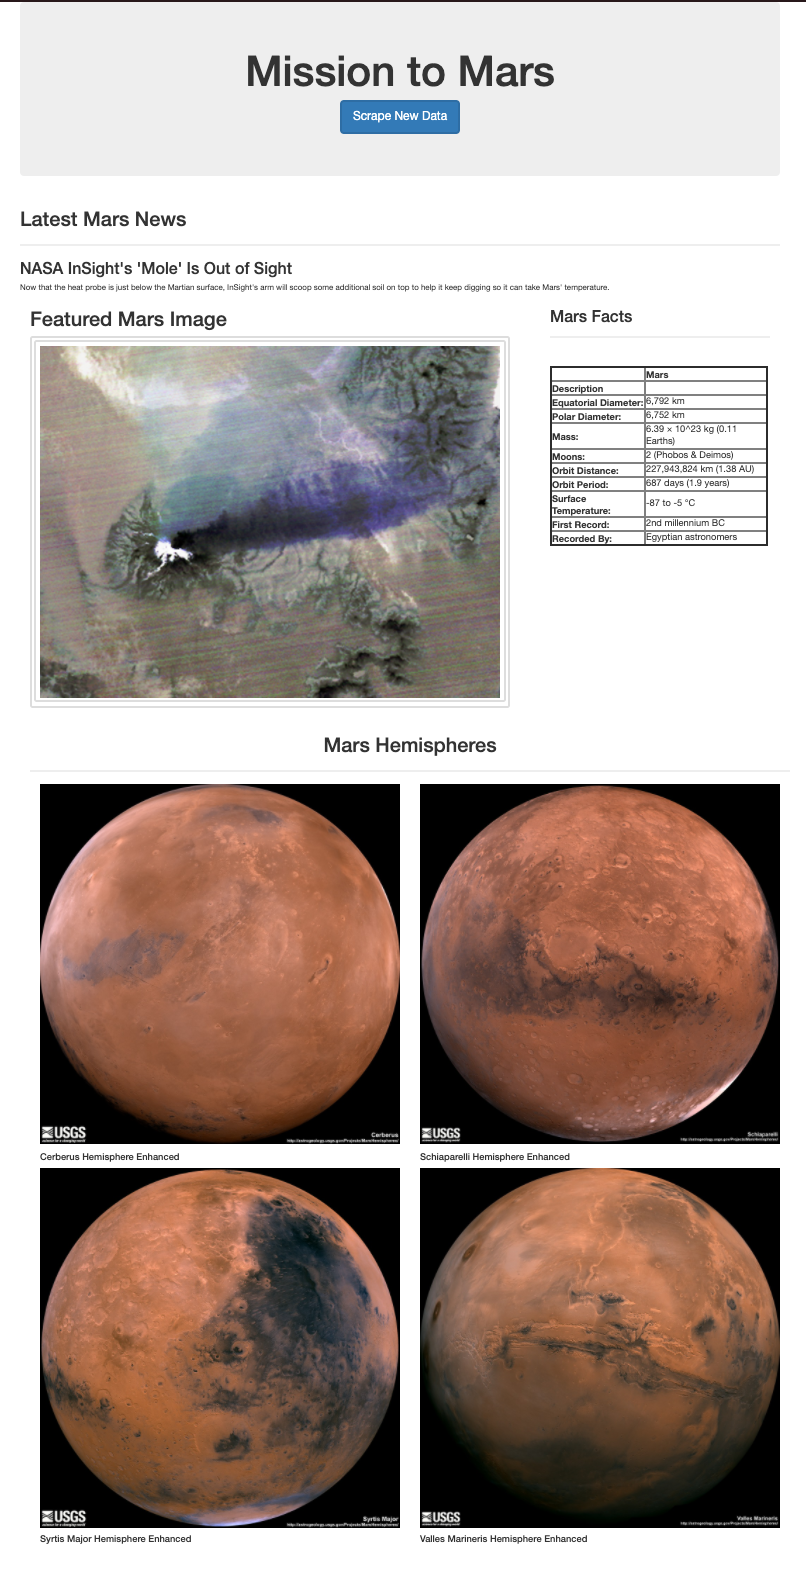
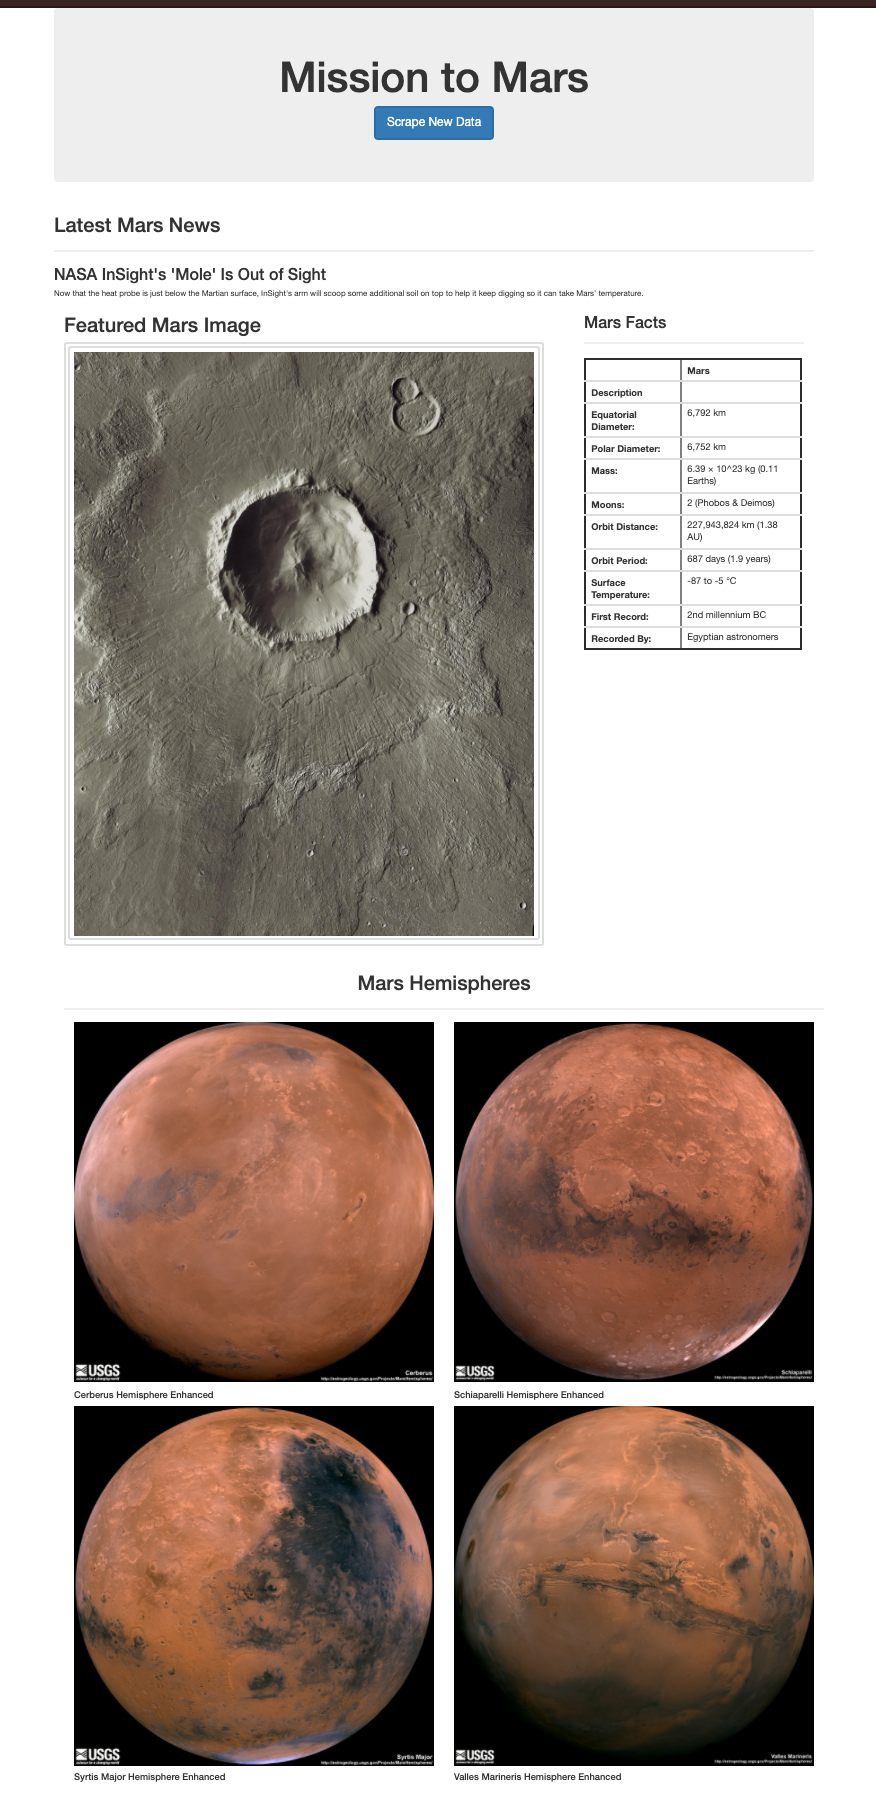
updates

diff --git a/templates/index.html b/templates/index.html
@@ -44,7 +44,7 @@
                 <div class="col-md-12">
                     <h3>Mars Facts</h3>
                     <hr>
-                    <table class="table table-striped">
+                    <table>
                         {{mars.facts | safe}}
                     </table>
                 </div>

diff --git a/scrape_mars.py b/scrape_mars.py
@@ -1,6 +1,7 @@
 from splinter import Browser
 from bs4 import BeautifulSoup
 import pandas as pd 
+import requests
 
 
 def init_browser():
@@ -52,7 +53,7 @@ def scrape():
     facts_df.columns=["Description","Mars"]
     facts_df.set_index("Description", inplace = True)
 
-    html_table = facts_df.to_html()
+    html_table = facts_df.to_html(classes="table table_striped")
     
 
     # Mars Hemispheres
